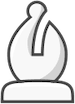
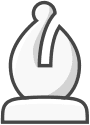
25-04-2023

diff --git a/src/AI.cpp b/src/AI.cpp
@@ -9,17 +9,14 @@
 #include <time.h>
 #include <utility>
 #include <vector>
-int calculatedMoves;
 
 void AI::playTurn(Board *board) {
-  calculatedMoves = 0;
   // Choose the best move
   auto bestmove = bestMove(board);
 
-  // Move the piece
+  // // Move the piece
   bestmove.second->move(bestmove.first->getCellX(), bestmove.first->getCellY(),
                         board);
-  std::cout << "AI calculated " << calculatedMoves << " moves" << std::endl;
   board->eraseAllIllumination();
   board->switchTurn();
 }
@@ -42,12 +39,12 @@ int AI::evaluateBoard(Board *board) {
 
 std::pair<Cell *, Piece *> AI::bestMove(Board *board) {
   int bestValue = 9999;
+  int bestforWhite = -9999;
   std::pair<Cell *, Piece *> bestMove;
 
   // Find the best move
   for (auto piece : board->getPiecesMap()) {
-    if (!piece.second->isAlive() ||
-        piece.second->getColor() != board->getTurn() ||
+    if (!piece.second->isAlive() || piece.second->getColor() != "black" ||
         !piece.second->canMove(board)) {
       continue;
     }
@@ -55,12 +52,12 @@ std::pair<Cell *, Piece *> AI::bestMove(Board *board) {
     std::vector<std::pair<int, int>> moves;
     for (int x = 0; x < 8; x++) {
       for (int y = 0; y < 8; y++) {
-        if (board->getCellAt(x, y)->isIlluminated())
+        if (board->getCellAt(x, y)->isIlluminated()) {
           moves.push_back(std::make_pair(x, y));
+        }
       }
     }
     for (auto move : moves) {
-      calculatedMoves++;
       // Move the piece
       int old_x = piece.second->getCellX();
       int old_y = piece.second->getCellY();
@@ -70,14 +67,16 @@ std::pair<Cell *, Piece *> AI::bestMove(Board *board) {
       if (board->isTherePiece(move.first, move.second)) {
         dead_piece = board->getPieceAt(move.first, move.second);
         dead_piece->setAlive(false);
+        if (dead_piece->getId().find("King") != std::string::npos) {
+          board->setGameFinished(true);
+        }
       } else {
         dead_piece = nullptr;
       }
       board->getCellAt(move.first, move.second)->setPiece(piece.second);
 
       // Evaluate the tree
-      int currentValue = minimax(board, 4, true, -9999, 9999);
-      // std::cout << "Current value: " << currentValue << std::endl;
+      int currentValue = minimax(board, 2, true, -9999, 9999);
       if (currentValue < bestValue) {
         bestValue = currentValue;
         bestMove = std::make_pair(board->getCellAt(move.first, move.second),
@@ -88,6 +87,9 @@ std::pair<Cell *, Piece *> AI::bestMove(Board *board) {
         dead_piece->setAlive(true);
         board->getCellAt(piece.second->getCellX(), piece.second->getCellY())
             ->setPiece(dead_piece);
+        if (dead_piece->getId().find("King") != std::string::npos) {
+          board->setGameFinished(false);
+        }
       } else {
         board->getCellAt(piece.second->getCellX(), piece.second->getCellY())
             ->setPiece(nullptr);
@@ -95,121 +97,86 @@ std::pair<Cell *, Piece *> AI::bestMove(Board *board) {
       board->getCellAt(old_x, old_y)->setPiece(piece.second);
     }
   }
-  // std::cout << "Best value: " << bestValue << std::endl;
   return bestMove;
 }
 
 int AI::minimax(Board *board, int depth, bool isMaximizing, int alpha,
                 int beta) {
+  std::pair<int, int> bestmove;
   // Check if the game is finished or the depth is 0
   if (depth == 0 || board->isGameFinished()) {
     return evaluateBoard(board);
   }
+  int value = isMaximizing ? -9999 : 9999;
+  std::string color = isMaximizing ? "white" : "black";
 
-  if (isMaximizing) {
-    int maxValue = -9999;
-
-    for (auto piece : board->getPiecesMap()) {
-      if (!piece.second->isAlive() || piece.second->getColor() != "white" ||
-          !piece.second->canMove(board)) {
-        continue;
+  for (auto piece : board->getPiecesMap()) {
+    if (!piece.second->isAlive() || piece.second->getColor() != color ||
+        !piece.second->canMove(board)) {
+      continue;
+    }
+    std::vector<std::pair<int, int>> moves;
+    piece.second->illuminatePaths(board);
+    for (int x = 0; x < 8; x++) {
+      for (int y = 0; y < 8; y++) {
+        if (board->getCellAt(x, y)->isIlluminated())
+          moves.push_back(std::make_pair(x, y));
       }
-      std::vector<std::pair<int, int>> moves;
-      piece.second->illuminatePaths(board);
-      for (int x = 0; x < 8; x++) {
-        for (int y = 0; y < 8; y++) {
-          if (board->getCellAt(x, y)->isIlluminated())
-            moves.push_back(std::make_pair(x, y));
+    }
+    for (auto move : moves) {
+      // Move the piece
+      int old_x = piece.second->getCellX();
+      int old_y = piece.second->getCellY();
+      board->getCellAt(piece.second->getCellX(), piece.second->getCellY())
+          ->setPiece(nullptr);
+      Piece *dead_piece = nullptr;
+      if (board->isTherePiece(move.first, move.second)) {
+        dead_piece = board->getPieceAt(move.first, move.second);
+        dead_piece->setAlive(false);
+        if (dead_piece->getId().find("King") != std::string::npos) {
+          board->setGameFinished(true);
         }
       }
-      for (auto move : moves) {
-        calculatedMoves++;
-        // Move the piece
-        int old_x = piece.second->getCellX();
-        int old_y = piece.second->getCellY();
-        board->getCellAt(piece.second->getCellX(), piece.second->getCellY())
-            ->setPiece(nullptr);
-        Piece *dead_piece = nullptr;
-        if (board->isTherePiece(move.first, move.second)) {
-          dead_piece = board->getPieceAt(move.first, move.second);
-          dead_piece->setAlive(false);
-        }
-        board->getCellAt(move.first, move.second)->setPiece(piece.second);
+      board->getCellAt(move.first, move.second)->setPiece(piece.second);
 
+      if (isMaximizing) {
         // Recursively call minimax
         int currentValue = minimax(board, depth - 1, false, alpha, beta);
 
         // Check if the current value is better than the best value
-        maxValue = std::max(maxValue, currentValue);
-        // Undo the move
-        if (dead_piece != nullptr) {
-          dead_piece->setAlive(true);
-          board->getCellAt(move.first, move.second)->setPiece(dead_piece);
-        } else {
-          board->getCellAt(move.first, move.second)->setPiece(nullptr);
+        if (currentValue > value) {
+          bestmove = move;
         }
-        board->getCellAt(old_x, old_y)->setPiece(piece.second);
-
-        alpha = std::max(alpha, maxValue);
-        if (beta <= alpha)
-          break;
-      }
-      if (beta <= alpha)
-        break;
-    }
-    return maxValue;
-  } else {
-    int minValue = 9999;
-
-    for (auto piece : board->getPiecesMap()) {
-      if (!piece.second->isAlive() || piece.second->getColor() != "black" ||
-          !piece.second->canMove(board)) {
-        continue;
-      }
-      piece.second->illuminatePaths(board);
-      std::vector<std::pair<int, int>> moves;
-      for (int x = 0; x < 8; x++) {
-        for (int y = 0; y < 8; y++) {
-          if (board->getCellAt(x, y)->isIlluminated())
-            moves.push_back(std::make_pair(x, y));
-        }
-      }
-      for (auto move : moves) {
-        calculatedMoves++;
-        // Move the piece
-        int old_x = piece.second->getCellX();
-        int old_y = piece.second->getCellY();
-        board->getCellAt(piece.second->getCellX(), piece.second->getCellY())
-            ->setPiece(nullptr);
-        Piece *dead_piece = nullptr;
-        if (board->isTherePiece(move.first, move.second)) {
-          dead_piece = board->getPieceAt(move.first, move.second);
-          dead_piece->setAlive(false);
-        }
-        board->getCellAt(move.first, move.second)->setPiece(piece.second);
-
+        value = std::max(value, currentValue);
+        alpha = std::max(alpha, value);
+      } else {
         // Recursively call minimax
         int currentValue = minimax(board, depth - 1, true, alpha, beta);
-
-        // Check if the current value is better than the best value
-        minValue = std::min(minValue, currentValue);
-
-        // Undo the move
-        if (dead_piece != nullptr) {
-          dead_piece->setAlive(true);
-          board->getCellAt(move.first, move.second)->setPiece(dead_piece);
-        } else {
-          board->getCellAt(move.first, move.second)->setPiece(nullptr);
+        if (currentValue < value) {
+          bestmove = move;
         }
-        board->getCellAt(old_x, old_y)->setPiece(piece.second);
-
-        beta = std::min(beta, minValue);
-        if (beta <= alpha)
-          break;
+        // Check if the current value is better than the best value
+        value = std::min(value, currentValue);
+        beta = std::min(beta, value);
       }
+
+      // Undo the move
+      if (dead_piece != nullptr) {
+        dead_piece->setAlive(true);
+        board->getCellAt(move.first, move.second)->setPiece(dead_piece);
+        if (dead_piece->getId().find("King") != std::string::npos) {
+          board->setGameFinished(false);
+        }
+      } else {
+        board->getCellAt(move.first, move.second)->setPiece(nullptr);
+      }
+      board->getCellAt(old_x, old_y)->setPiece(piece.second);
+
       if (beta <= alpha)
         break;
     }
-    return minValue;
+    if (beta <= alpha)
+      break;
   }
+  return value;
 }

diff --git a/src/ChessPanel.cpp b/src/ChessPanel.cpp
@@ -9,8 +9,8 @@ ChessPanel::ChessPanel(wxFrame *parent, Board *board)
               wxBORDER_NONE),
       m_board(board), m_enemySelected(false) {
   wxWindow::SetBackgroundStyle(wxBG_STYLE_PAINT);
-  Connect(wxEVT_PAINT, wxPaintEventHandler(ChessPanel::OnPaint));
-  Connect(wxEVT_LEFT_DOWN, wxMouseEventHandler(ChessPanel::OnLeftMouseDown));
+  Bind(wxEVT_PAINT, &ChessPanel::OnPaint, this);
+  Bind(wxEVT_LEFT_DOWN, &ChessPanel::OnLeftMouseDown, this);
 }
 
 void ChessPanel::OnPaint(wxPaintEvent &event) {
@@ -50,6 +50,8 @@ void ChessPanel::OnLeftMouseDown(wxMouseEvent &event) {
   // Translate mouse position to a cell
   int cellX = (int)(pos.x / cellLenX);
   int cellY = (int)(pos.y / cellLenY);
+  cellX = cellX == 8 ? 7 : cellX;
+  cellY = cellY == 8 ? 7 : cellY;
 
   // Get the selected cell
   Cell *selectedCell = m_board->getCellAt(cellX, cellY);
@@ -129,10 +131,23 @@ void ChessPanel::drawPieces(wxGraphicsContext *gc) {
     Piece *piece = it.second;
     if (piece->isAlive()) {
       int dim = cellLenX < cellLenY ? cellLenX : cellLenY;
-      const int cellPosX = piece->getCellX() * cellLenX + (0.5*cellLenX - 0.4 * dim);
-      const int cellPosY = piece->getCellY() * cellLenY + (0.5*cellLenY - 0.4 * dim);
-      const int imageSizeX=dim*0.8;
-      const int imageSizeY=dim*0.8;
+      float scale = 0.8;
+      int imgHeight = piece->getImage().GetHeight();
+      int imgWidth = piece->getImage().GetWidth();
+
+      if (imgHeight > imgWidth) {
+        imgWidth = (int)(imgWidth * (dim * scale) / imgHeight);
+        imgHeight = (int)(dim * scale);
+      } else {
+        imgHeight = (int)(imgHeight * (dim * scale) / imgWidth);
+        imgWidth = (int)(dim * scale);
+      }
+      int cellPosX =
+          piece->getCellX() * cellLenX + (cellLenX / 2 - imgWidth / 2);
+      int cellPosY =
+          piece->getCellY() * cellLenY + (cellLenY / 2 - imgHeight / 2);
+      int imageSizeX = imgWidth;
+      int imageSizeY = imgHeight;
       gc->DrawBitmap(piece->getImage(), cellPosX, cellPosY, imageSizeX,
                      imageSizeY);
     }

diff --git a/src/Board.cpp b/src/Board.cpp
@@ -47,7 +47,8 @@ void Board::switchTurn() {
 
 void Board::setGameFinished(bool gameFinished) {
   m_gameFinished = gameFinished;
-  wxMessageBox(wxString("Game ended, " + m_turn + " wins."));
+  // wxMessageBox(wxString("Game ended, " + m_turn + " wins."));
+  // std::cout << "Game ended, " << m_turn << " wins." << std::endl;
 }
 
 bool Board::isGameFinished() { return m_gameFinished; }

diff --git a/src/Piece.cpp b/src/Piece.cpp
@@ -40,7 +40,6 @@ void Piece::setValue(int value) { m_value = value; }
 int Piece::getValue() { return m_value; }
 
 bool Piece::canMove(Board *board) {
-  //
   illuminatePaths(board);
   for (int x = 0; x < 8; x++) {
     for (int y = 0; y < 8; y++) {

diff --git a/include/AI.h b/include/AI.h
@@ -13,5 +13,4 @@ private:
   static std::pair<Cell *, Piece *> bestMove(Board *board);
   static int minimax(Board *board, int depth, bool isMaximizing, int alpha,
                      int beta);
-  // static int calculatedMoves;
 };
